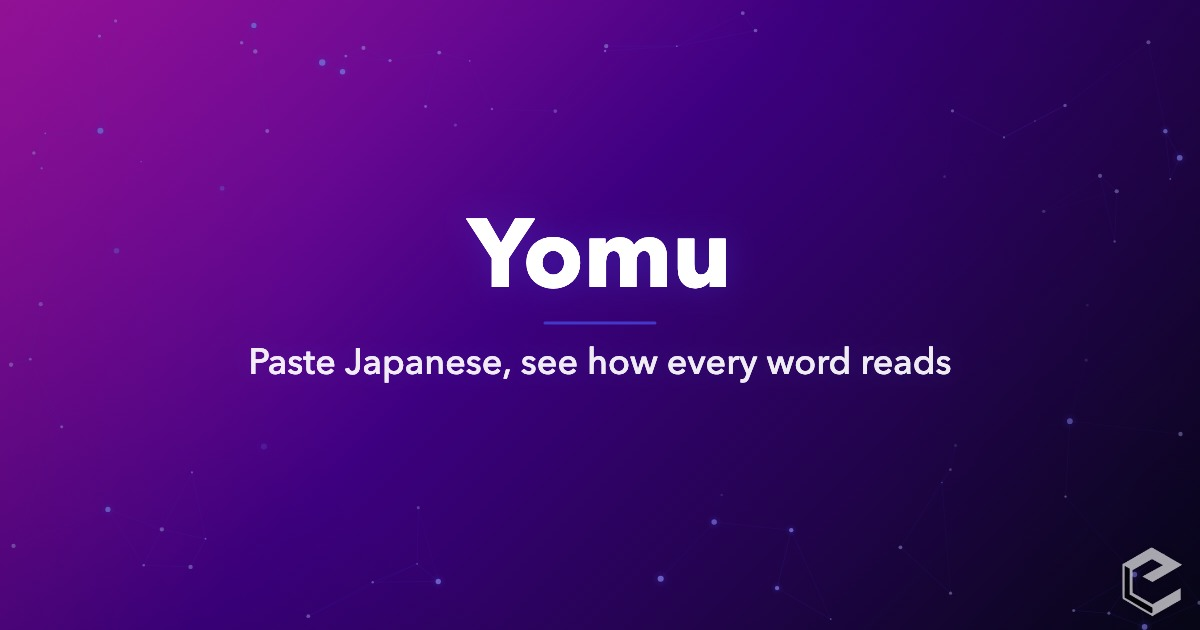
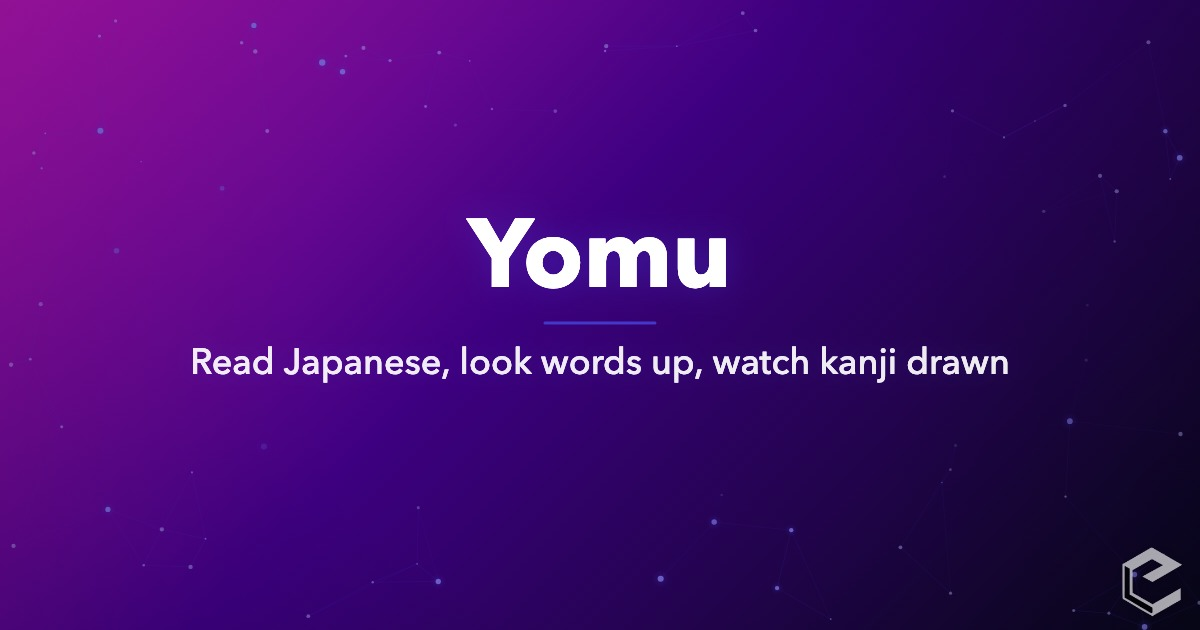
chore(seo): describe Search and the kanji pages, and a fresh social preview

Changed region(s): [[0.1542, 0.5429, 0.8325, 0.6032]]

diff --git a/index.html b/index.html
@@ -21,15 +21,15 @@
   <link rel="manifest" href="/site.webmanifest">
   <meta name="neo-mark" content="on">
   <title>Yomu | Read Japanese word by word</title>
-  <meta name="description" content="Paste a line of Japanese and read it word by word: furigana, romaji as said and as spelled, meanings, kanji, and the sounds that change">
+  <meta name="description" content="Paste a line of Japanese and read it word by word: furigana, romaji, meanings and grammar. Look words up in Japanese, romaji or English, and watch every kanji drawn">
   <meta property="og:title" content="Yomu | Read Japanese word by word">
-  <meta property="og:description" content="Paste a line of Japanese and read it word by word: furigana, romaji as said and as spelled, meanings, kanji, and the sounds that change">
+  <meta property="og:description" content="Paste a line of Japanese and read it word by word: furigana, romaji, meanings and grammar. Look words up in Japanese, romaji or English, and watch every kanji drawn">
   <meta property="og:type" content="website">
   <meta property="og:url" content="https://yomu.neorgon.com/">
   <meta property="og:site_name" content="Neorgon">
   <meta name="twitter:card" content="summary_large_image">
   <meta name="twitter:title" content="Yomu | Read Japanese word by word">
-  <meta name="twitter:description" content="Paste a line of Japanese and read it word by word: furigana, romaji as said and as spelled, meanings, kanji, and the sounds that change">
+  <meta name="twitter:description" content="Paste a line of Japanese and read it word by word: furigana, romaji, meanings and grammar. Look words up in Japanese, romaji or English, and watch every kanji drawn">
   <meta name="robots" content="index, follow">
   <link rel="canonical" href="https://yomu.neorgon.com/">
   <meta property="og:locale" content="en_US">
@@ -80,7 +80,7 @@
     "@type": "WebApplication",
     "name": "Yomu",
     "alternateName": "Read Japanese word by word",
-    "description": "Paste a line of Japanese and read it word by word: furigana, romaji as said and as spelled, meanings, kanji, and the sounds that change",
+    "description": "Paste a line of Japanese and read it word by word: furigana, romaji, meanings and grammar. Look words up in Japanese, romaji or English, and watch every kanji drawn",
     "url": "https://yomu.neorgon.com/",
     "applicationCategory": "EducationalApplication",
     "operatingSystem": "Any",
